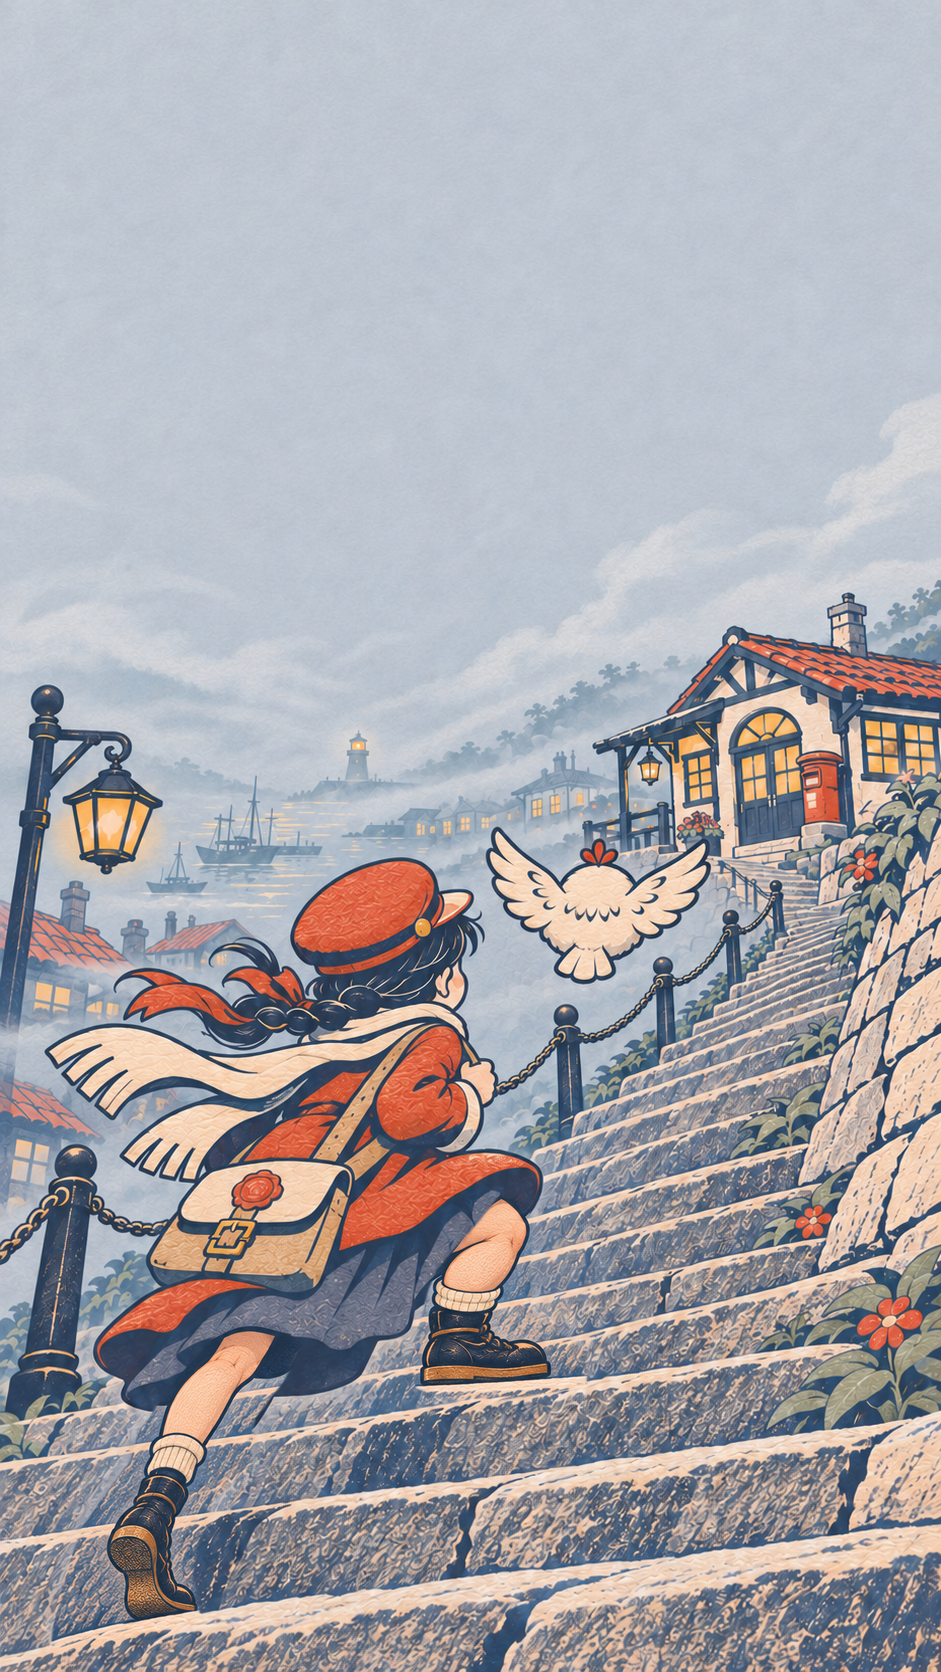
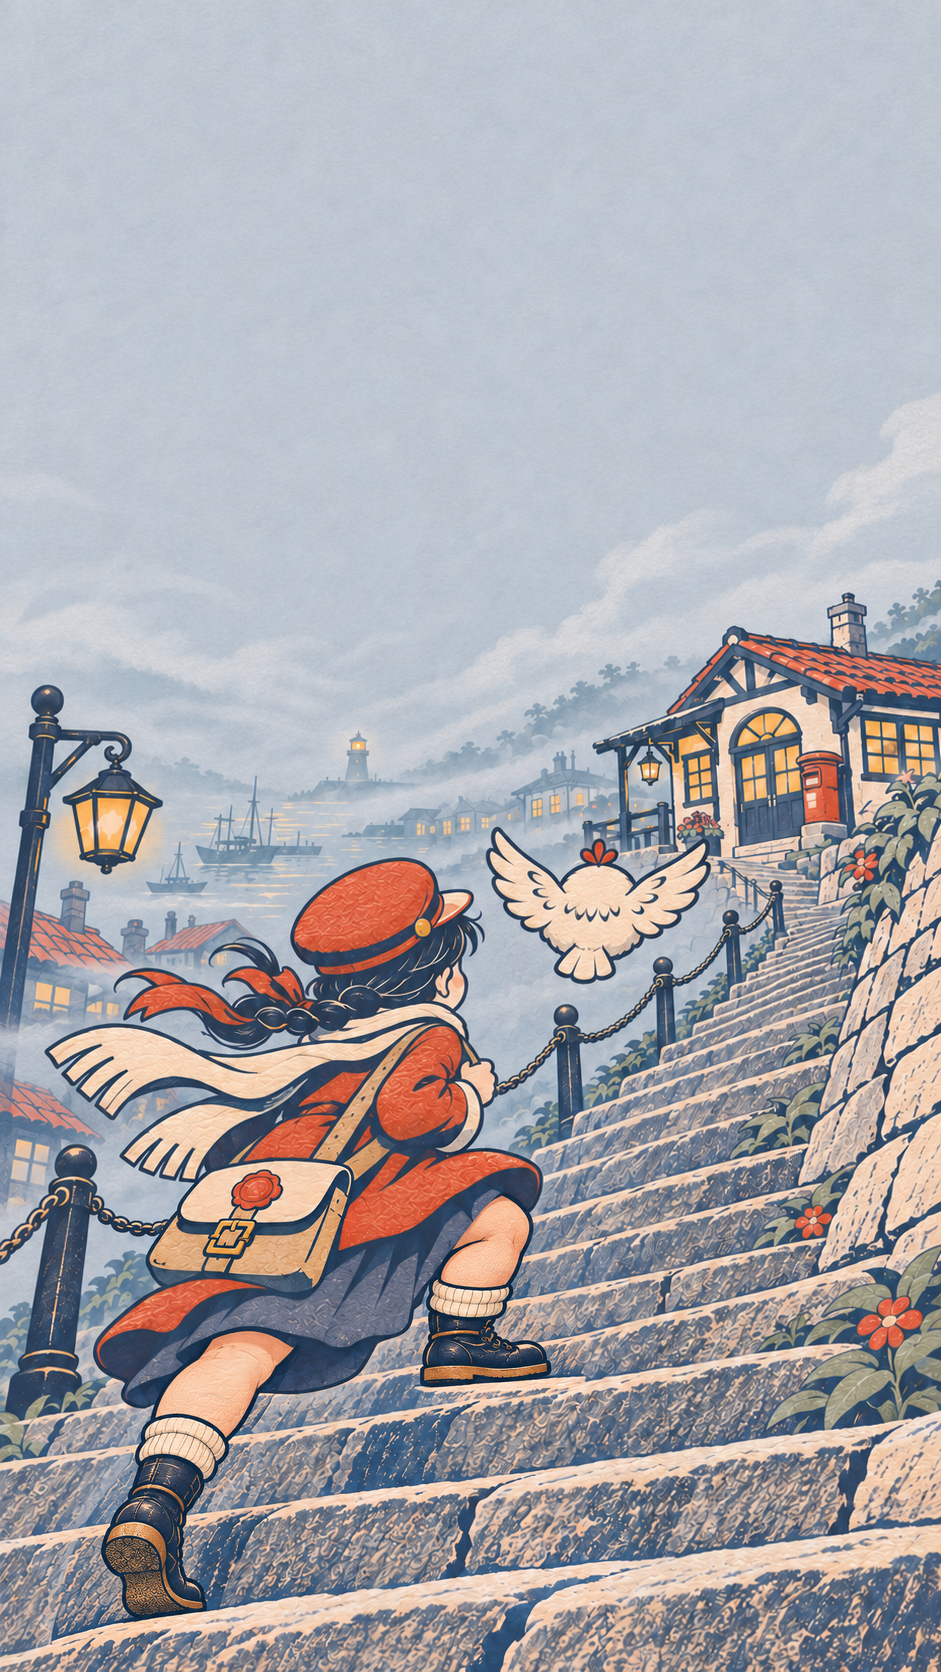
タイトル絵の足を元の太さに戻す（向きは直したまま）。v=117
Claude-Session: https://claude.ai/code/session_01NxsVqWd6E8wULWa2eDL34e

diff --git a/products/word-guild/sw.js b/products/word-guild/sw.js
@@ -1,4 +1,4 @@
-const VERSION = '54609e4c';
+const VERSION = 'e7c982e3';
 const PRECACHE = ["./album.css","./app.mjs","./art/atenashi.webp","./art/body-action.webp","./art/body-body.webp","./art/body-doc.webp","./art/body-food.webp","./art/body-goods.webp","./art/body-mind.webp","./art/body-money.webp","./art/body-move.webp","./art/body-nature.webp","./art/body-number.webp","./art/body-person.webp","./art/body-place.webp","./art/body-state.webp","./art/body-time.webp","./art/body-tool.webp","./art/body-work.webp","./art/btn-album.webp","./art/btn-letter.webp","./art/btn-settings.webp","./art/btn-title.webp","./art/fuurou-normal.webp","./art/fuurou-stamp.webp","./art/gate-0-door-l.webp","./art/gate-0-door-r.webp","./art/gate-0-door.webp","./art/gate-0.webp","./art/gate-1-door-l.webp","./art/gate-1-door-r.webp","./art/gate-1-door.webp","./art/gate-1.webp","./art/gate-2-door-l.webp","./art/gate-2-door-r.webp","./art/gate-2-door.webp","./art/gate-2.webp","./art/gate-3-door-l.webp","./art/gate-3-door-r.webp","./art/gate-3-door.webp","./art/gate-3.webp","./art/gate-4-door-l.webp","./art/gate-4-door-r.webp","./art/gate-4-door.webp","./art/gate-4.webp","./art/gate-5-door-l.webp","./art/gate-5-door-r.webp","./art/gate-5-door.webp","./art/gate-5.webp","./art/gate-6-door-l.webp","./art/gate-6-door-r.webp","./art/gate-6-door.webp","./art/gate-6.webp","./art/hatori-normal.webp","./art/hatori-smile.webp","./art/hokoridama.webp","./art/house-1.webp","./art/house-10.webp","./art/house-11.webp","./art/house-12.webp","./art/house-13.webp","./art/house-14.webp","./art/house-15.webp","./art/house-16.webp","./art/house-17.webp","./art/house-18.webp","./art/house-19.webp","./art/house-2.webp","./art/house-20.webp","./art/house-21.webp","./art/house-22.webp","./art/house-23.webp","./art/house-24.webp","./art/house-25.webp","./art/house-26.webp","./art/house-27.webp","./art/house-28.webp","./art/house-29.webp","./art/house-3.webp","./art/house-30.webp","./art/house-31.webp","./art/house-32.webp","./art/house-33.webp","./art/house-34.webp","./art/house-35.webp","./art/house-36.webp","./art/house-37.webp","./art/house-38.webp","./art/house-39.webp","./art/house-4.webp","./art/house-40.webp","./art/house-41.webp","./art/house-42.webp","./art/house-43.webp","./art/house-44.webp","./art/house-45.webp","./art/house-46.webp","./art/house-47.webp","./art/house-48.webp","./art/house-49.webp","./art/house-5.webp","./art/house-50.webp","./art/house-51.webp","./art/house-52.webp","./art/house-53.webp","./art/house-54.webp","./art/house-55.webp","./art/house-56.webp","./art/house-6.webp","./art/house-7.webp","./art/house-8.webp","./art/house-9.webp","./art/icon-180.png","./art/icon-192.png","./art/icon-512.png","./art/keshikasu.webp","./art/key-visual.webp","./art/lighthouse.webp","./art/map-art.mjs","./art/nijimi.webp","./art/open-2.webp","./art/open-3.webp","./art/oshimi.webp","./art/post-front.webp","./art/post-office.webp","./art/road/road-0.webp","./art/road/road-1.webp","./art/road/road-2.webp","./art/road/road-3.webp","./art/road/road-4.webp","./art/road/road-5.webp","./art/road/road-6.webp","./art/shadow-blank-coat.webp","./art/shadow-boy-run.webp","./art/shadow-clerk-desk.webp","./art/shadow-crowd.webp","./art/shadow-girl-point.webp","./art/shadow-keeper-lamp.webp","./art/shadow-man-walk.webp","./art/shadow-old-man-cane.webp","./art/shadow-sailor.webp","./art/shadow-seller-stall.webp","./art/shadow-woman-bow.webp","./art/shadow-woman-stand.webp","./art/shadow-worker-box.webp","./art/shimi.webp","./art/tsumugi-joy.webp","./art/tsumugi-normal.webp","./art/ward-1.webp","./art/ward-2.webp","./art/ward-3.webp","./art/ward-4.webp","./art/ward-5.webp","./art/ward-6.webp","./data/chara.json","./data/house-doors.json","./data/rare.json","./data/scenes.json","./data/stage-names.json","./data/story-allow.json","./data/story-ps.json","./data/story.json","./data/wordart.json","./data/words.json","./guild/album.mjs","./guild/art.mjs","./guild/board.mjs","./guild/chapters.mjs","./guild/chara-svg.mjs","./guild/chara.mjs","./guild/cinema.mjs","./guild/credits.mjs","./guild/daily.mjs","./guild/dom.mjs","./guild/library.mjs","./guild/map.mjs","./guild/music.mjs","./guild/pwa.mjs","./guild/quest.mjs","./guild/rare.mjs","./guild/rng.mjs","./guild/settings.mjs","./guild/srs.mjs","./guild/stages.mjs","./guild/store.mjs","./guild/story.mjs","./guild/trace.mjs","./guild/view.mjs","./guild/words.mjs","./index.html","./letter.css","./manifest.webmanifest","./map.css","./style.css"];
 const WORD_VERSION = '4b1bfa85';
 const CACHE = `wg-shell-${VERSION}`;

diff --git a/products/word-guild/index.html b/products/word-guild/index.html
@@ -1,2 +1,2 @@
 <!doctype html>
-<html lang="ja"><head><meta charset="utf-8"><meta name="viewport" content="width=device-width,initial-scale=1,viewport-fit=cover"><meta name="theme-color" content="#1f2a44"><meta name="apple-mobile-web-app-capable" content="yes"><meta name="apple-mobile-web-app-title" content="霧晴れ郵便局"><link rel="manifest" href="manifest.webmanifest"><link id="apple-icon" rel="apple-touch-icon" href="art/icon-180.png"><link rel="stylesheet" href="style.css?v=116"><title>霧晴れ郵便局</title></head><body><main><section id="view" aria-label="ゲーム画面"></section><div id="status" role="status"></div></main><script type="module" src="app.mjs?v=116"></script></body></html>
+<html lang="ja"><head><meta charset="utf-8"><meta name="viewport" content="width=device-width,initial-scale=1,viewport-fit=cover"><meta name="theme-color" content="#1f2a44"><meta name="apple-mobile-web-app-capable" content="yes"><meta name="apple-mobile-web-app-title" content="霧晴れ郵便局"><link rel="manifest" href="manifest.webmanifest"><link id="apple-icon" rel="apple-touch-icon" href="art/icon-180.png"><link rel="stylesheet" href="style.css?v=117"><title>霧晴れ郵便局</title></head><body><main><section id="view" aria-label="ゲーム画面"></section><div id="status" role="status"></div></main><script type="module" src="app.mjs?v=117"></script></body></html>
